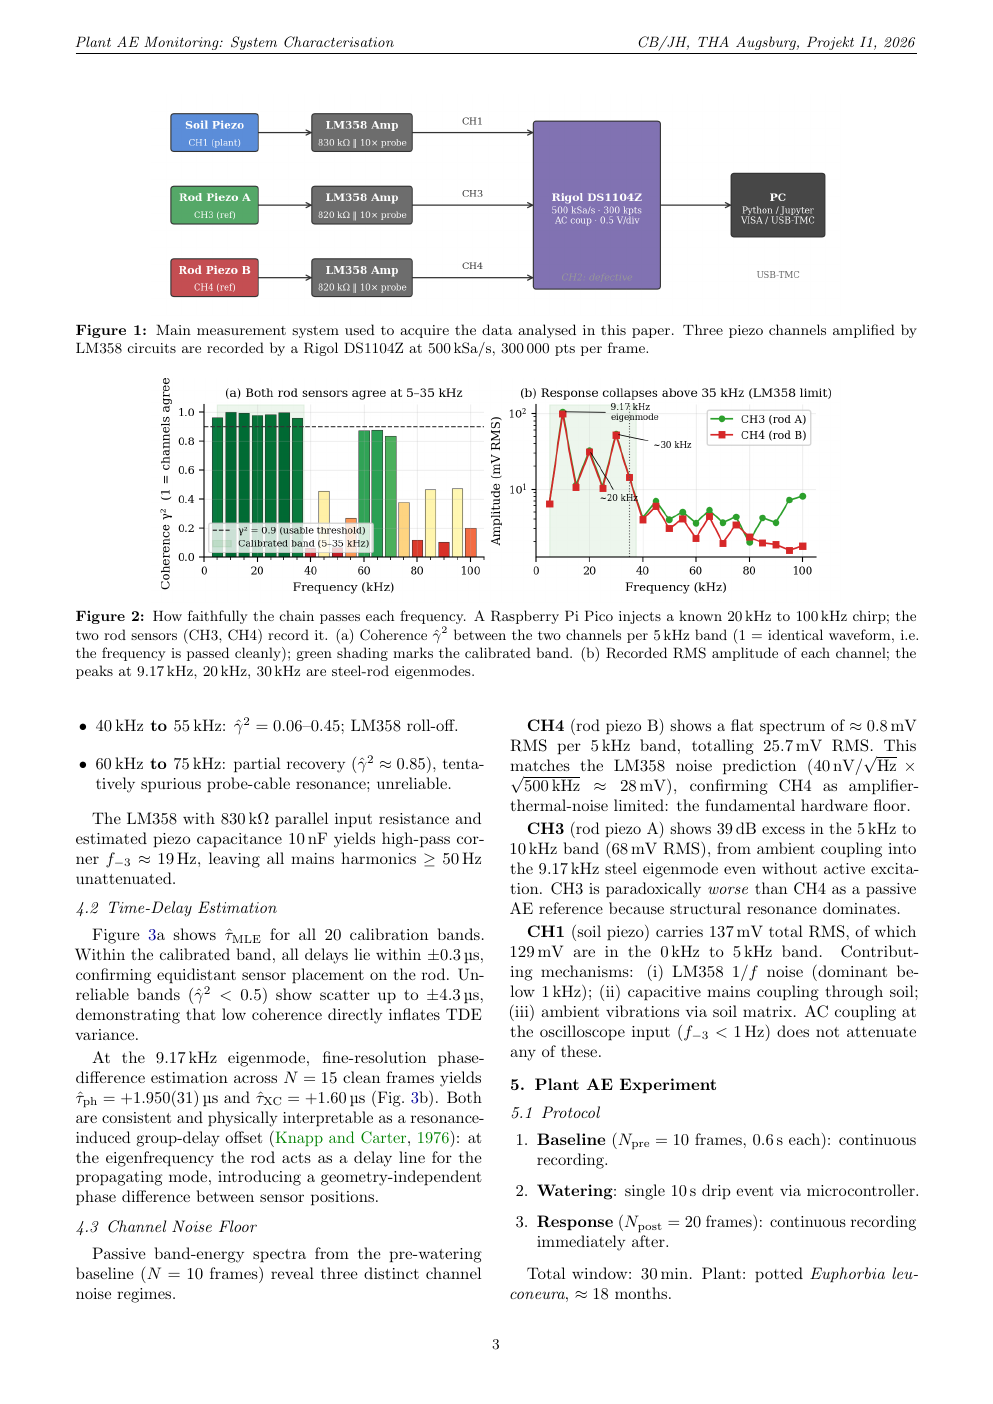
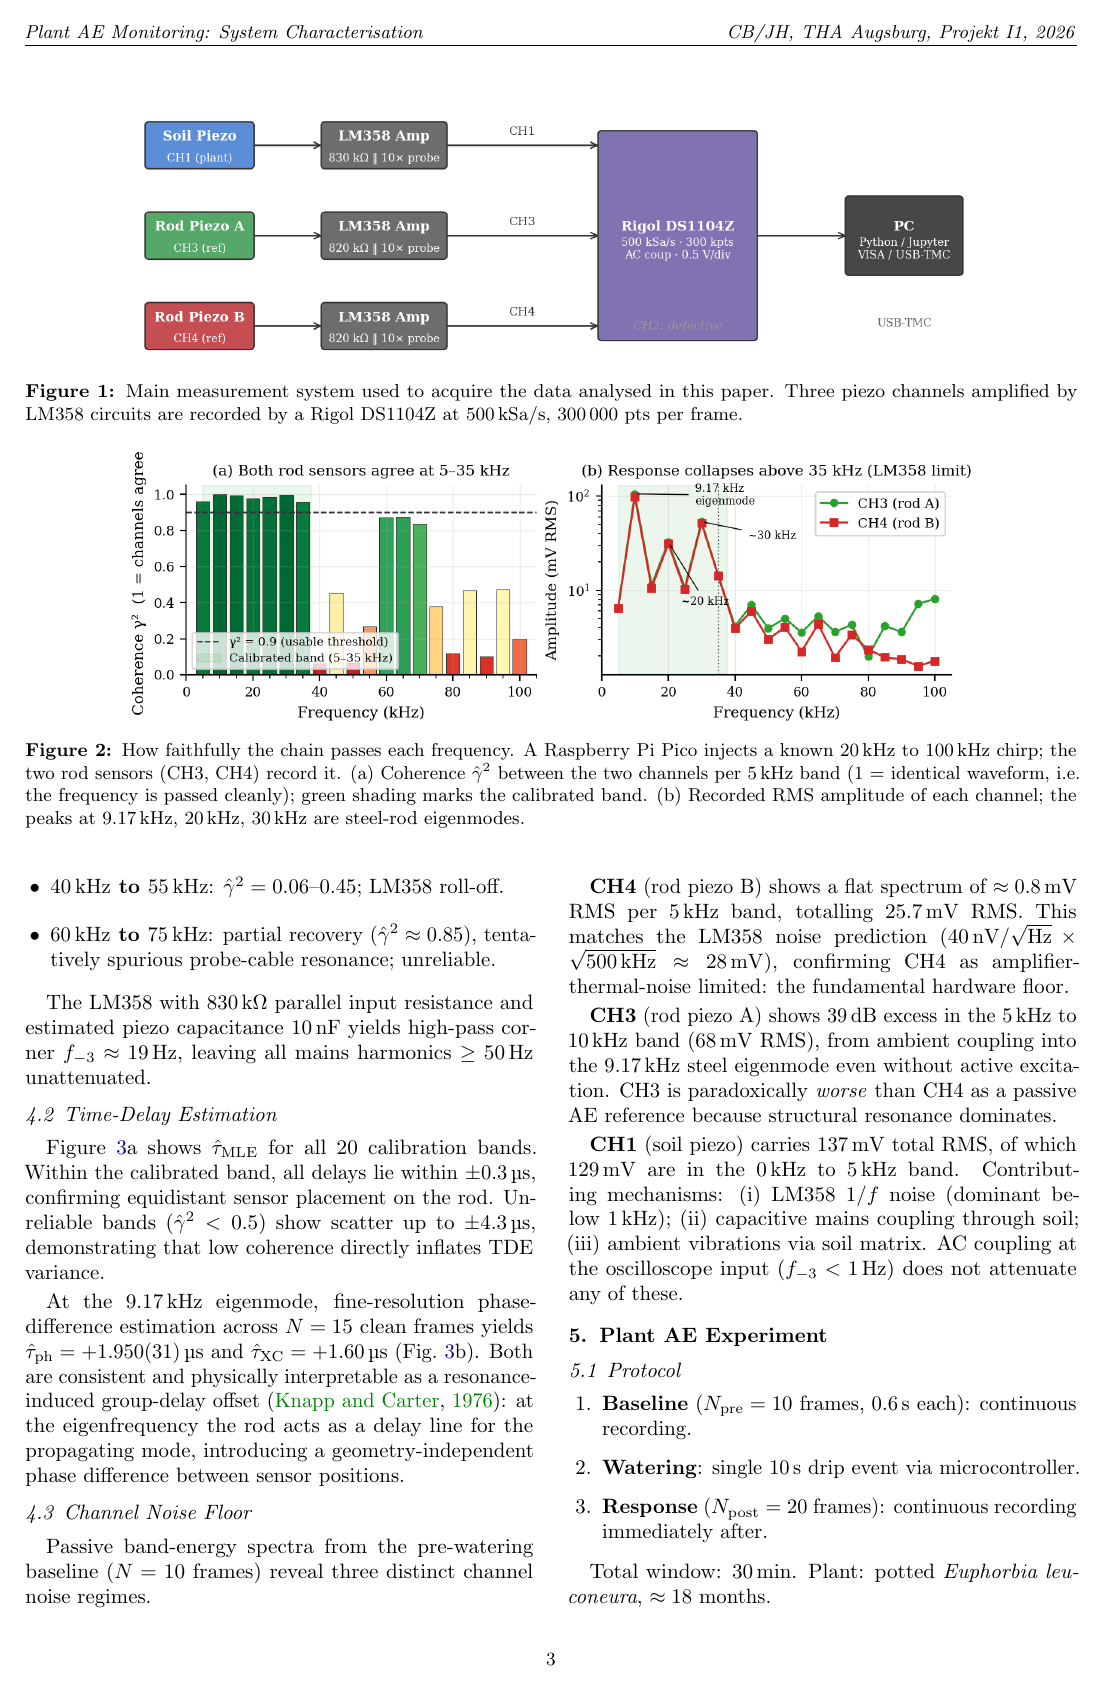
GitBook: Paperseiten in voller Spaltenbreite, Ränder beschnitten

diff --git a/docs/README.md b/docs/README.md
@@ -10,17 +10,17 @@ Paper (PDF)
 
 **Repository:** [ChristophBellmann/THA_Passive-Acoustic-Emission-Monitoring-of-Plant-Stress-Responses](https://github.com/ChristophBellmann/THA_Passive-Acoustic-Emission-Monitoring-of-Plant-Stress-Responses) – measurement software, data, notebooks and paper sources.
 
-[![Page 1](.gitbook/assets/paper-seite-1.png)](https://github.com/ChristophBellmann/THA_Passive-Acoustic-Emission-Monitoring-of-Plant-Stress-Responses/blob/main/paper/Passive_Acoustic_Emission_Monitoring_of_Plant_Stress_Responses.pdf)
+![Page 1](.gitbook/assets/paper-seite-1.png)
 
-[![Page 2](.gitbook/assets/paper-seite-2.png)](https://github.com/ChristophBellmann/THA_Passive-Acoustic-Emission-Monitoring-of-Plant-Stress-Responses/blob/main/paper/Passive_Acoustic_Emission_Monitoring_of_Plant_Stress_Responses.pdf)
+![Page 2](.gitbook/assets/paper-seite-2.png)
 
-[![Page 3](.gitbook/assets/paper-seite-3.png)](https://github.com/ChristophBellmann/THA_Passive-Acoustic-Emission-Monitoring-of-Plant-Stress-Responses/blob/main/paper/Passive_Acoustic_Emission_Monitoring_of_Plant_Stress_Responses.pdf)
+![Page 3](.gitbook/assets/paper-seite-3.png)
 
-[![Page 4](.gitbook/assets/paper-seite-4.png)](https://github.com/ChristophBellmann/THA_Passive-Acoustic-Emission-Monitoring-of-Plant-Stress-Responses/blob/main/paper/Passive_Acoustic_Emission_Monitoring_of_Plant_Stress_Responses.pdf)
+![Page 4](.gitbook/assets/paper-seite-4.png)
 
-[![Page 5](.gitbook/assets/paper-seite-5.png)](https://github.com/ChristophBellmann/THA_Passive-Acoustic-Emission-Monitoring-of-Plant-Stress-Responses/blob/main/paper/Passive_Acoustic_Emission_Monitoring_of_Plant_Stress_Responses.pdf)
+![Page 5](.gitbook/assets/paper-seite-5.png)
 
-[![Page 6](.gitbook/assets/paper-seite-6.png)](https://github.com/ChristophBellmann/THA_Passive-Acoustic-Emission-Monitoring-of-Plant-Stress-Responses/blob/main/paper/Passive_Acoustic_Emission_Monitoring_of_Plant_Stress_Responses.pdf)
+![Page 6](.gitbook/assets/paper-seite-6.png)
 
 A research and engineering project investigating whether plant-related acoustic emissions can be measured non-invasively and used as feedback for a future **Plant-in-the-Loop** control system.
 
